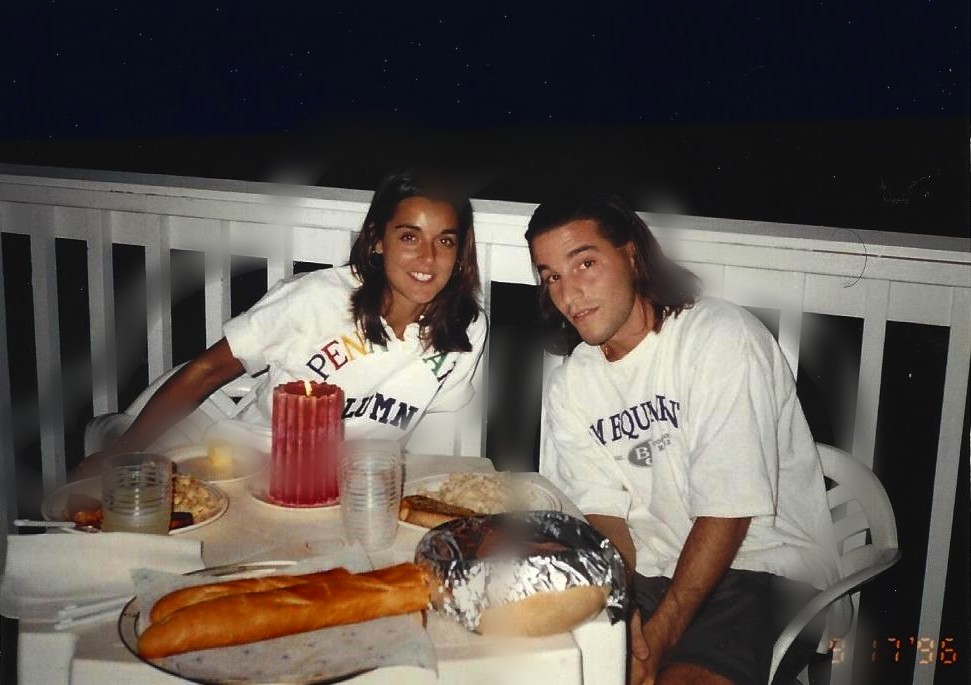
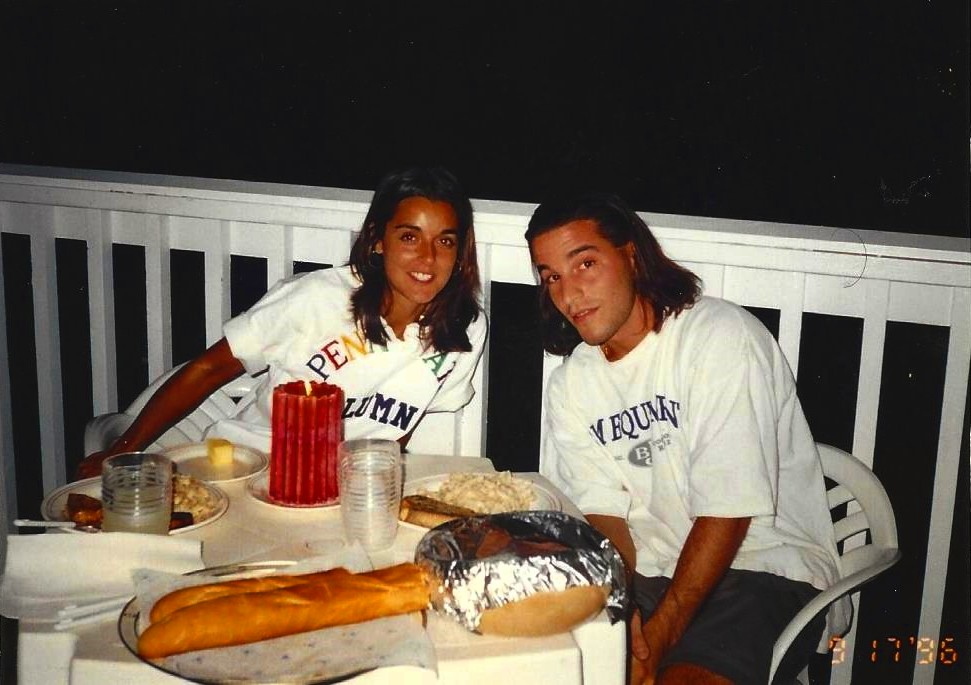
Candlelight: Camp-method rebuild (no held layer)

diff --git a/candlelight/index.html b/candlelight/index.html
@@ -11,9 +11,9 @@
          -webkit-font-smoothing:antialiased; }
   main { min-height:100vh; display:flex; flex-direction:column; align-items:center;
          padding:34px 18px 30px; }
-  .stage { position:relative; width:100%;
+  .stage { position:relative; width:min(1120px, 100%);
            aspect-ratio: 971 / 685; cursor:pointer; background:#000;
-           box-shadow: inset 0 0 0 1px #000, 0 6px 24px rgba(0,0,0,.6); }
+           box-shadow: 0 18px 60px rgba(0,0,0,.65); }
   .stage img { position:absolute; inset:0; width:100%; height:100%;
                object-fit:contain; display:block; }
   .controls { margin-top:22px; display:flex; justify-content:center; }
@@ -38,11 +38,12 @@
   /* Museum Frame: the framed presentation — black outer frame around the
      photo, title + subtitle on the frame, bottom strip with a line about
      the piece and thelivingphotos.com. */
-  .museum { margin-top:6px; width:min(1060px, 100%); background:#060607;
+  .museum { margin-top:26px; width:min(1060px, 100%); background:#060607;
             border:1px solid #2c2c30; outline:10px solid #101013;
             box-shadow:0 30px 80px rgba(0,0,0,.8), inset 0 0 0 1px #000;
             padding:clamp(18px, 3.4vw, 34px) clamp(14px, 3vw, 30px) 0; }
-  .museum .stage { margin-top:14px; }
+  .museum .stage { width:100%; margin-top:14px;
+            box-shadow:inset 0 0 0 1px #000, 0 6px 24px rgba(0,0,0,.6); }
   .m-title { font-size:clamp(24px, 3.8vw, 38px); font-weight:normal;
              letter-spacing:.14em; text-transform:uppercase; color:#f2ead6;
              text-align:center; }
@@ -64,10 +65,10 @@
   <div class="m-sub">August 1996</div>
 
   <div class="stage" id="stage" title="Tap for full screen">
-    <img id="lyrDay"    src="still.jpg" alt="The original photo, untouched">
-    <img id="lyrRevive" src="revive.jpg" alt="" style="opacity:0">
-    <img id="lyrDeep"   src="deep.jpg" alt="" style="opacity:0">
-    <img id="lyrHeld"   src="held.png" alt="" style="opacity:0">
+    <img id="lyrStill"  src="still.jpg" alt="The original photo, untouched">
+    <img id="lyrDay"    src="revive.jpg" alt="" style="opacity:0">
+    <img id="lyrGolden" src="golden.jpg" alt="" style="opacity:0">
+    <img id="lyrGlow"   src="glow.jpg" alt="" style="opacity:0">
     <img id="lyrAccCandle" src="acc-candle.png" alt="" style="opacity:0">
   </div>
 
@@ -87,25 +88,27 @@
 
 <div id="fs">
   <div id="fsBg">
-    <img id="fsBgDay" alt="">
-    <img id="fsBgRevive" alt="" style="opacity:0">
-    <img id="fsBgDeep" alt="" style="opacity:0">
-    <img id="fsBgHeld" alt="" style="opacity:0">
+    <img id="fsBgStill" alt="">
+    <img id="fsBgDay" alt="" style="opacity:0">
+    <img id="fsBgGolden" alt="" style="opacity:0">
+    <img id="fsBgGlow" alt="" style="opacity:0">
   </div>
-  <img id="fsDay" src="still.jpg" alt="">
-  <img id="fsRevive" src="revive.jpg" alt="" style="opacity:0">
-  <img id="fsDeep" src="deep.jpg" alt="" style="opacity:0">
-  <img id="fsHeld" src="held.png" alt="" style="opacity:0">
+  <img id="fsStill"  src="still.jpg" alt="">
+  <img id="fsDay"    src="revive.jpg" alt="" style="opacity:0">
+  <img id="fsGolden" src="golden.jpg" alt="" style="opacity:0">
+  <img id="fsGlow"   src="glow.jpg" alt="" style="opacity:0">
   <img id="fsAccCandle" src="acc-candle.png" alt="" style="opacity:0">
   <div id="fsBar">
-    <button id="fsStill">Still</button><button id="fsLiving" class="on">Living</button><button id="fsClose" class="x" aria-label="Close">&#10005;</button>
+    <button id="fsStillB">Still</button><button id="fsLiving" class="on">Living</button><button id="fsClose" class="x" aria-label="Close">&#10005;</button>
   </div>
 </div>
 
 <script>
 (function(){
   "use strict";
-  var T = 20;                 // evening loop, seconds (COLOR-LED LIFT Nov 9: 28s -> 20s, boundaries x5/7)
+  var T = 20;                 // scene loop, seconds — GENTLE TRAVEL for real
+                              // photos (Gary, Nov 8): doubled from T=10,
+                              // every crossfade twice as long and soft.
   var state = 'still';        // 'still' | 'living'
   var ignited = false;
   var frozen = null;          // QA: freeze the phase at this many seconds
@@ -117,7 +120,7 @@
 
   function phaseNow(now){
     if (!ignited) return 0;
-    if (rate !== 1 && now - anchorT >= 1500){
+    if (rate !== 1 && now - anchorT >= 750){
       anchorP = anchorP + (now - anchorT) / 1000 * rate;
       anchorT = now; rate = 1;
     }
@@ -125,47 +128,75 @@
   }
 
   function stack(p){
-    return { day: document.getElementById(p+'Day'),
-             revive: document.getElementById(p+'Revive'),
-             deep: document.getElementById(p+'Deep'),
-             held: document.getElementById(p+'Held'),
-             candle: document.getElementById(p+'AccCandle') };
+    return { still: document.getElementById(p+'Still'),
+             day: document.getElementById(p+'Day'),
+             golden: document.getElementById(p+'Golden'),
+             glow: document.getElementById(p+'Glow'),
+             candle: (p === 'lyr' ? document.getElementById('lyrAccCandle')
+                                   : document.getElementById('fsAccCandle')) };
   }
   var page = stack('lyr'), fs = stack('fs');
   var fsEl = document.getElementById('fs');
-  var fsOpen = false, priorState = 'still', fsSaved = null;
+  var fsOpen = false, priorState = 'still';
 
-  // Evening timeline (20s; boundaries scaled x5/7 from the 28s gentle pass): the faded original holds -> the photo's true
-  // colors wake -> the night deepens around the candle and breathes ->
-  // everything softly lets go back to the photograph as it was.
+  // Candlelight timeline (Camp construction): the faded original holds
+  // first (the before IS the point) -> the photo's true colors wake ->
+  // golden candlelight -> the dusk settles -> all grades lift and the
+  // faded photo returns, ready to live again.
   function opacities(t){
     t = ((t % T) + T) % T;
-    if (t < 3.5714)  return { day:1, revive:0, deep:0 };
-    if (t < 7.1429)  return { day:1, revive:(t-3.5714)/3.5714, deep:0 };
-    if (t < 9.2857)  return { day:1, revive:1, deep:0 };
-    if (t < 13.5714) return { day:1, revive:1, deep:(t-9.2857)/4.2857 };
-    if (t < 17.1429) return { day:1, revive:1, deep:1 };
-    return { day:1, revive:1-(t-17.1429)/2.8571, deep:1-(t-17.1429)/2.8571 };
+    if (t < 4)       return { day:0, golden:0, glow:0 };
+    if (t < 7.3333)  return { day:(t-4)/3.3333, golden:0, glow:0 };
+    if (t < 10.0)    return { day:1, golden:0, glow:0 };
+    if (t < 12.6667) return { day:1, golden:(t-10)/2.6667, glow:0 };
+    if (t < 15.3333) return { day:1, golden:1, glow:0 };
+    if (t < 18.0)    return { day:1, golden:1, glow:(t-15.3333)/2.6667 };
+    var u = 1-(t-18.0)/2.0;
+    return { day:u, golden:u, glow:u };
   }
+  // CAMP-METHOD (v5): NO HELD LAYER. The plates are complete global
+  // grades of the photo and the living view is their crossfade alone —
+  // no silhouette, no alpha, nothing pinned over the world. The held
+  // layer is permanently retired: on this photo it printed as a white
+  // outline around both people (the guided-filter mask's ~±14px
+  // translucent band at alpha<1 let the darkened deep plate darken the
+  // fringe while the alpha=1 side kept blown flash-falloff pixels, and
+  // the wide soft band smeared a pale haze around the silhouettes).
+  // The people travel exactly as much as the world immediately around
+  // them, which is what light does — the same construction as Camp Days
+  // v5 and Prom Night's plates. Whole-frame travel ~39 levels, in Camp's
+  // measured family (40.35). Cycle timing (T=20) is Camp's.
   // The one accent: the candle flame's glow, breathing on its own slow
-  // clock, present only while the deep grade is up.
+  // clock, present only while the dusk grade is up.
   function candlePulse(t){
     var p = 0.5 - 0.5 * Math.cos(2 * Math.PI * t / 2.6333);
     p = p * p * (3 - 2 * p);                    // smoothstep ease
     return 0.80 + 0.20 * p;
   }
   function apply(st, so, living, t){
+    st.still.style.opacity = 1;
     st.day.style.opacity = so.day;
-    st.revive.style.opacity = living ? so.revive : 0;
-    st.deep.style.opacity = living ? so.deep : 0;
-    st.held.style.opacity = living ? 1 : 0;
-    st.candle.style.opacity = living ? so.deep * candlePulse(t) : 0;
+    st.golden.style.opacity = so.golden;
+    st.glow.style.opacity = so.glow;
+    st.candle.style.opacity = living ? so.glow * candlePulse(t) : 0;
+  }
+  var fsBg = { still: document.getElementById('fsBgStill'),
+               day: document.getElementById('fsBgDay'),
+               golden: document.getElementById('fsBgGolden'),
+               glow: document.getElementById('fsBgGlow') };
+  fsBg.still.src = fs.still.src; fsBg.day.src = fs.day.src;
+  fsBg.golden.src = fs.golden.src; fsBg.glow.src = fs.glow.src;
+  function applyBg(so, living){
+    fsBg.still.style.opacity = 1;
+    fsBg.day.style.opacity = so.day;
+    fsBg.golden.style.opacity = so.golden;
+    fsBg.glow.style.opacity = so.glow;
   }
   function frame(now){
     var t = frozen !== null ? frozen : phaseNow(now);
     var so = opacities(t);
     var living = state === 'living';
-    if (!living) so = { day:1, revive:0, deep:0 };
+    if (!living) so = { day:0, golden:0, glow:0 };
     apply(page, so, living, t);
     if (fsOpen){ apply(fs, so, fsSaved !== 'still', t); applyBg(so, fsSaved !== 'still'); }
     requestAnimationFrame(frame);
@@ -206,7 +237,8 @@
   // Full-screen controls: STILL shows the untouched photo, LIVING the
   // living version, X (or Esc) exits — flipping inside full screen never
   // changes the stage state underneath.
-  document.getElementById('fsStill').addEventListener('click', function(e){
+  var fsSaved = null;
+  document.getElementById('fsStillB').addEventListener('click', function(e){
     e.stopPropagation(); fsSaved = 'still'; applyFsMode();
   });
   document.getElementById('fsLiving').addEventListener('click', function(e){
@@ -217,24 +249,8 @@
   });
   function applyFsMode(){
     var living = fsSaved !== 'still';
-    document.getElementById('fsStill').classList.toggle('on', !living);
+    document.getElementById('fsStillB').classList.toggle('on', !living);
     document.getElementById('fsLiving').classList.toggle('on', living);
-  }
-
-  // Full-screen surround: the photo shows WHOLE (contain); behind it, a
-  // blurred, darkened copy of the same plates fills the frame (whole-photo
-  // hierarchy — size changes, never the fit).
-  var fsBg = { day: document.getElementById('fsBgDay'),
-               revive: document.getElementById('fsBgRevive'),
-               deep: document.getElementById('fsBgDeep'),
-               held: document.getElementById('fsBgHeld') };
-  fsBg.day.src = fs.day.src; fsBg.revive.src = fs.revive.src;
-  fsBg.deep.src = fs.deep.src; fsBg.held.src = fs.held.src;
-  function applyBg(so, living){
-    fsBg.day.style.opacity = so.day;
-    fsBg.revive.style.opacity = living ? so.revive : 0;
-    fsBg.deep.style.opacity = living ? so.deep : 0;
-    fsBg.held.style.opacity = living ? 1 : 0;
   }
 
   function closeFs(){
